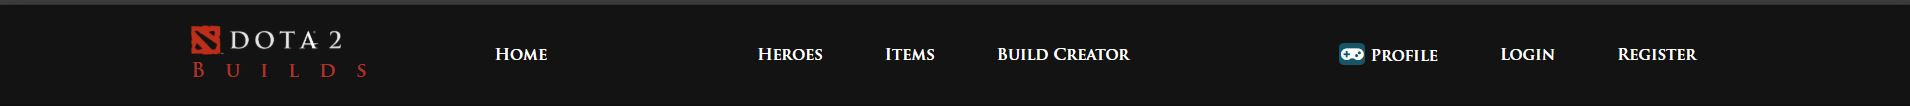
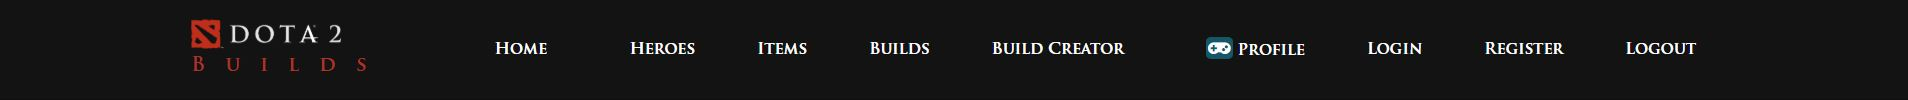
update navigation; update documentation

diff --git a/src/app/app-routing.module.ts b/src/app/app-routing.module.ts
@@ -7,11 +7,13 @@ import { BuildCreatorComponent } from '../components/build-creator/build-creator
 import { ProfileComponent } from '../components/profile/profile.component';
 import { LoginComponent } from '../components/login/login.component';
 import { RegisterComponent } from '../components/register/register.component';
+import { HeroBuildsComponent } from '../components/hero-builds/hero-builds.component';
 
 const routes: Routes = [
     { path: '', component: HomeComponent },
     { path: 'heroes', component: HeroesComponent },
     { path: 'items', component: ItemsComponent },
+    { path: 'builds', component: HeroBuildsComponent },
     { path: 'build-creator', component: BuildCreatorComponent },
     { path: 'profile', component: ProfileComponent },
     { path: 'login', component: LoginComponent },

diff --git a/src/components/header/header.component.html b/src/components/header/header.component.html
@@ -13,6 +13,7 @@
         <nav class="navigation-group">
             <a class="dota-nav-btn" routerLink="/heroes">Heroes</a>
             <a class="dota-nav-btn" routerLink="/items">Items</a>
+            <a class="dota-nav-btn" routerLink="/builds">Builds</a>
             <a class="dota-nav-btn" routerLink="/build-creator">Build Creator</a>
         </nav>
         <nav class="navigation-group">
@@ -21,6 +22,7 @@
                 Profile</a>
             <a class="dota-nav-btn" routerLink="/login">Login</a>
             <a class="dota-nav-btn" routerLink="/register">Register</a>
+            <a class="dota-nav-btn" routerLink="/logout">Logout</a>
         </nav>
     </div>
 
